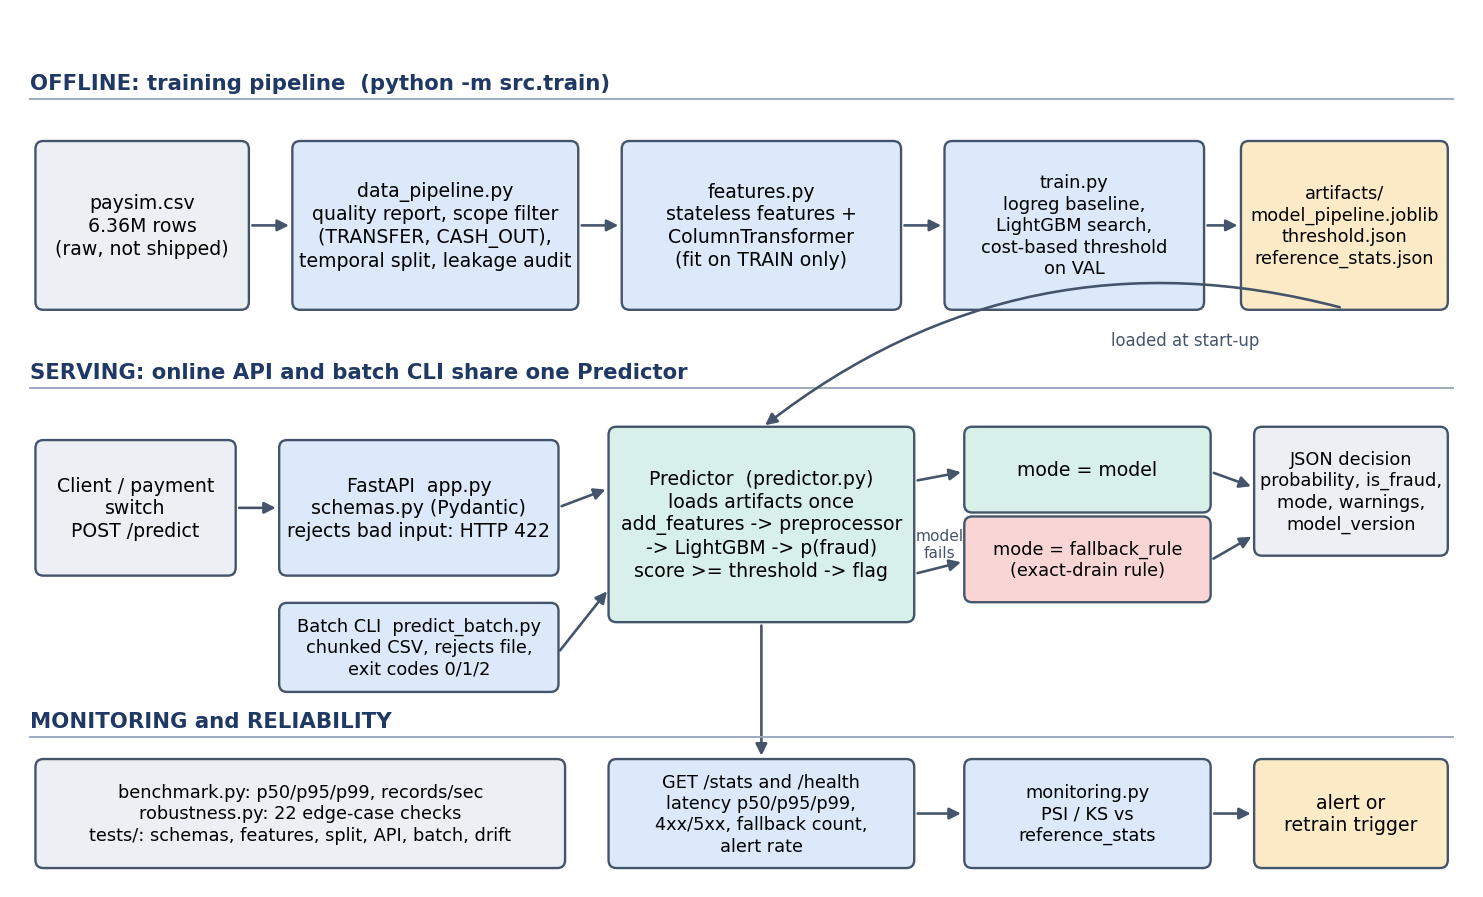
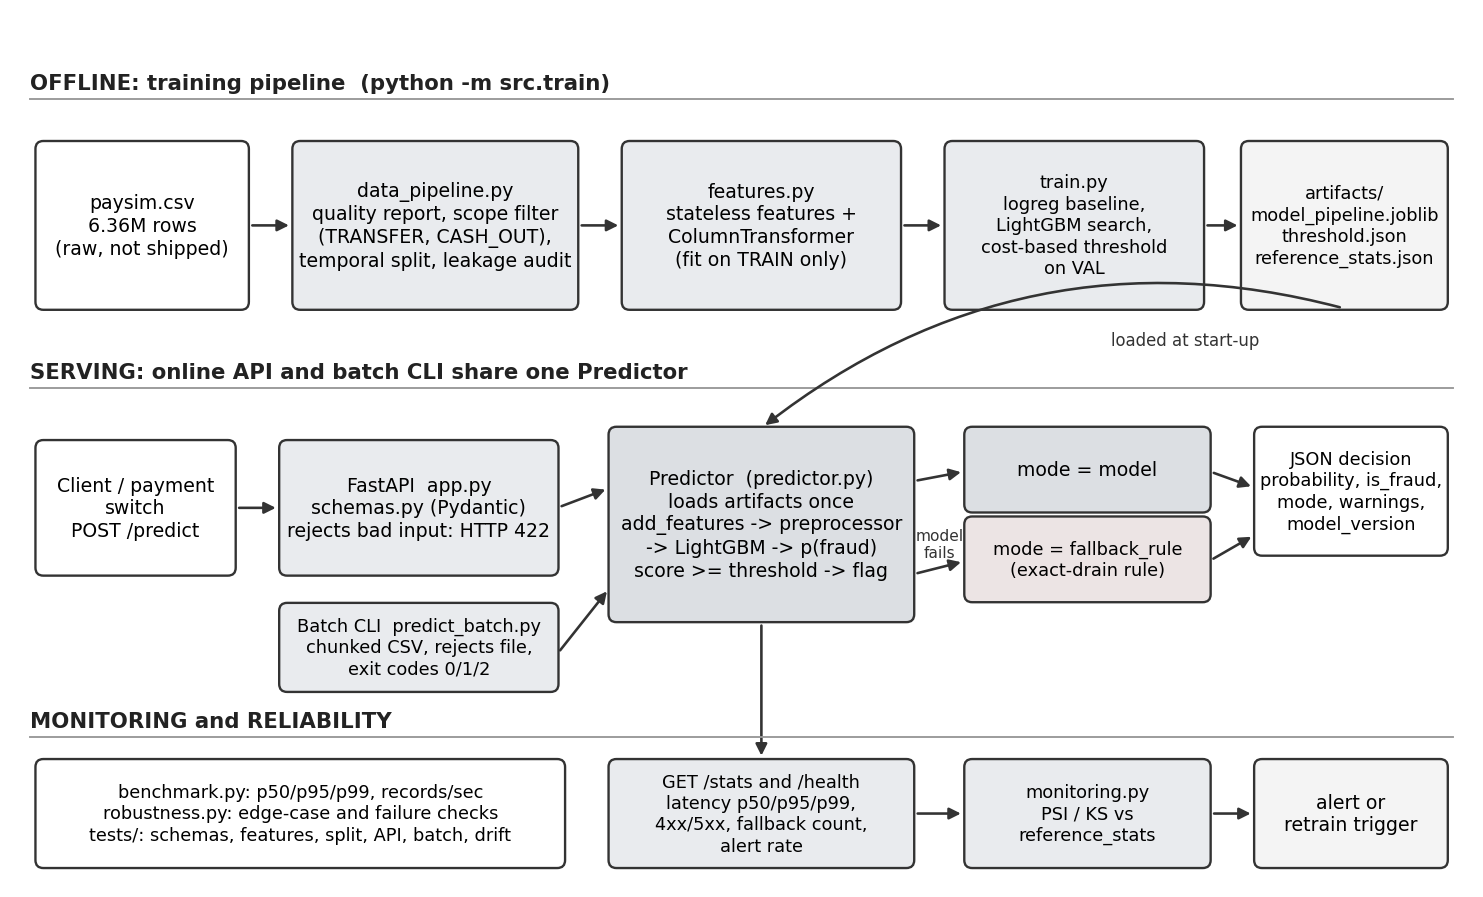
Use neutral colours in diagrams

diff --git a/docs/make_diagrams.py b/docs/make_diagrams.py
@@ -7,21 +7,21 @@ import matplotlib.pyplot as plt
 from matplotlib.patches import FancyArrowPatch, FancyBboxPatch
 
 OUT = Path(__file__).resolve().parent
-BLUE, TEAL, AMBER, GREY, RED = "#dbe9fb", "#d8f0ea", "#fdebc8", "#eceff3", "#f9d6d5"
+BLUE, TEAL, AMBER, GREY, RED = "#e9ebee", "#dcdfe3", "#f4f4f4", "#ffffff", "#ece4e4"
 
 
 def box(ax, x, y, w, h, text, fc, fs=8, bold=False):
     ax.add_patch(FancyBboxPatch((x, y), w, h, boxstyle="round,pad=0.02,rounding_size=0.12",
-                                fc=fc, ec="#44546a", lw=1.0))
+                                fc=fc, ec="#333333", lw=1.0))
     ax.text(x + w / 2, y + h / 2, text, ha="center", va="center", fontsize=fs,
             fontweight="bold" if bold else "normal", linespacing=1.25)
 
 
 def arrow(ax, p, q, text=None, rad=0.0, fs=7):
     ax.add_patch(FancyArrowPatch(p, q, arrowstyle="-|>", mutation_scale=10, lw=1.1,
-                                 color="#44546a", connectionstyle=f"arc3,rad={rad}"))
+                                 color="#333333", connectionstyle=f"arc3,rad={rad}"))
     if text:
-        ax.text((p[0] + q[0]) / 2, (p[1] + q[1]) / 2 + 0.16, text, ha="center", fontsize=fs, color="#44546a")
+        ax.text((p[0] + q[0]) / 2, (p[1] + q[1]) / 2 + 0.16, text, ha="center", fontsize=fs, color="#333333")
 
 
 def architecture():
@@ -32,10 +32,10 @@ def architecture():
     for y, t in ((11.9, "OFFLINE: training pipeline  (python -m src.train)"),
                  (7.55, "SERVING: online API and batch CLI share one Predictor"),
                  (2.3, "MONITORING and RELIABILITY")):
-        ax.text(0.2, y, t, fontsize=9, fontweight="bold", color="#1f3864")
-    ax.plot([0.2, 21.8], [11.75, 11.75], color="#9aa9bf", lw=0.8)
-    ax.plot([0.2, 21.8], [7.4, 7.4], color="#9aa9bf", lw=0.8)
-    ax.plot([0.2, 21.8], [2.15, 2.15], color="#9aa9bf", lw=0.8)
+        ax.text(0.2, y, t, fontsize=9, fontweight="bold", color="#222222")
+    ax.plot([0.2, 21.8], [11.75, 11.75], color="#999999", lw=0.8)
+    ax.plot([0.2, 21.8], [7.4, 7.4], color="#999999", lw=0.8)
+    ax.plot([0.2, 21.8], [2.15, 2.15], color="#999999", lw=0.8)
 
     # offline lane
     box(ax, 0.3, 8.6, 3.2, 2.5, "paysim.csv\n6.36M rows\n(raw, not shipped)", GREY)
@@ -59,8 +59,8 @@ def architecture():
     arrow(ax, (13.6, 6.0), (14.4, 6.15)); arrow(ax, (13.6, 4.6), (14.4, 4.8), "model\nfails", fs=6.5)
     arrow(ax, (18.1, 6.15), (18.8, 5.9)); arrow(ax, (18.1, 4.8), (18.8, 5.2))
     ax.annotate("", xy=(11.3, 6.8), xytext=(20.15, 8.6),
-                arrowprops=dict(arrowstyle="-|>", color="#44546a", lw=1.1, connectionstyle="arc3,rad=0.25"))
-    ax.text(16.6, 8.05, "loaded at start-up", fontsize=7, color="#44546a")
+                arrowprops=dict(arrowstyle="-|>", color="#333333", lw=1.1, connectionstyle="arc3,rad=0.25"))
+    ax.text(16.6, 8.05, "loaded at start-up", fontsize=7, color="#333333")
 
     # monitoring lane
     box(ax, 9.0, 0.2, 4.6, 1.6, "GET /stats and /health\nlatency p50/p95/p99,\n4xx/5xx, fallback count,\nalert rate", BLUE, fs=7.5)
@@ -79,11 +79,11 @@ def timeline():
             (450, 600, "VAL  451-600\n100,704 | 1,556 | 1.55%", AMBER),
             (600, 743, "TEST  601-743\n43,550 | 1,600 | 3.67%", TEAL)]
     for a, b, t, c in segs:
-        ax.add_patch(plt.Rectangle((a, 0.7), b - a, 0.9, fc=c, ec="#44546a"))
+        ax.add_patch(plt.Rectangle((a, 0.7), b - a, 0.9, fc=c, ec="#333333"))
         ax.text((a + b) / 2, 1.15, t, ha="center", va="center", fontsize=7.5)
-    ax.annotate("", xy=(743, 0.45), xytext=(0, 0.45), arrowprops=dict(arrowstyle="-|>", color="#44546a"))
+    ax.annotate("", xy=(743, 0.45), xytext=(0, 0.45), arrowprops=dict(arrowstyle="-|>", color="#333333"))
     ax.text(371, 0.12, "time (hourly steps).  No partition sees anything from a later one; fit on train, apply to val/test.",
-            ha="center", fontsize=7.5, color="#44546a")
+            ha="center", fontsize=7.5, color="#333333")
     fig.savefig(OUT / "split_timeline.png", dpi=170, bbox_inches="tight")
     plt.close(fig)
 
